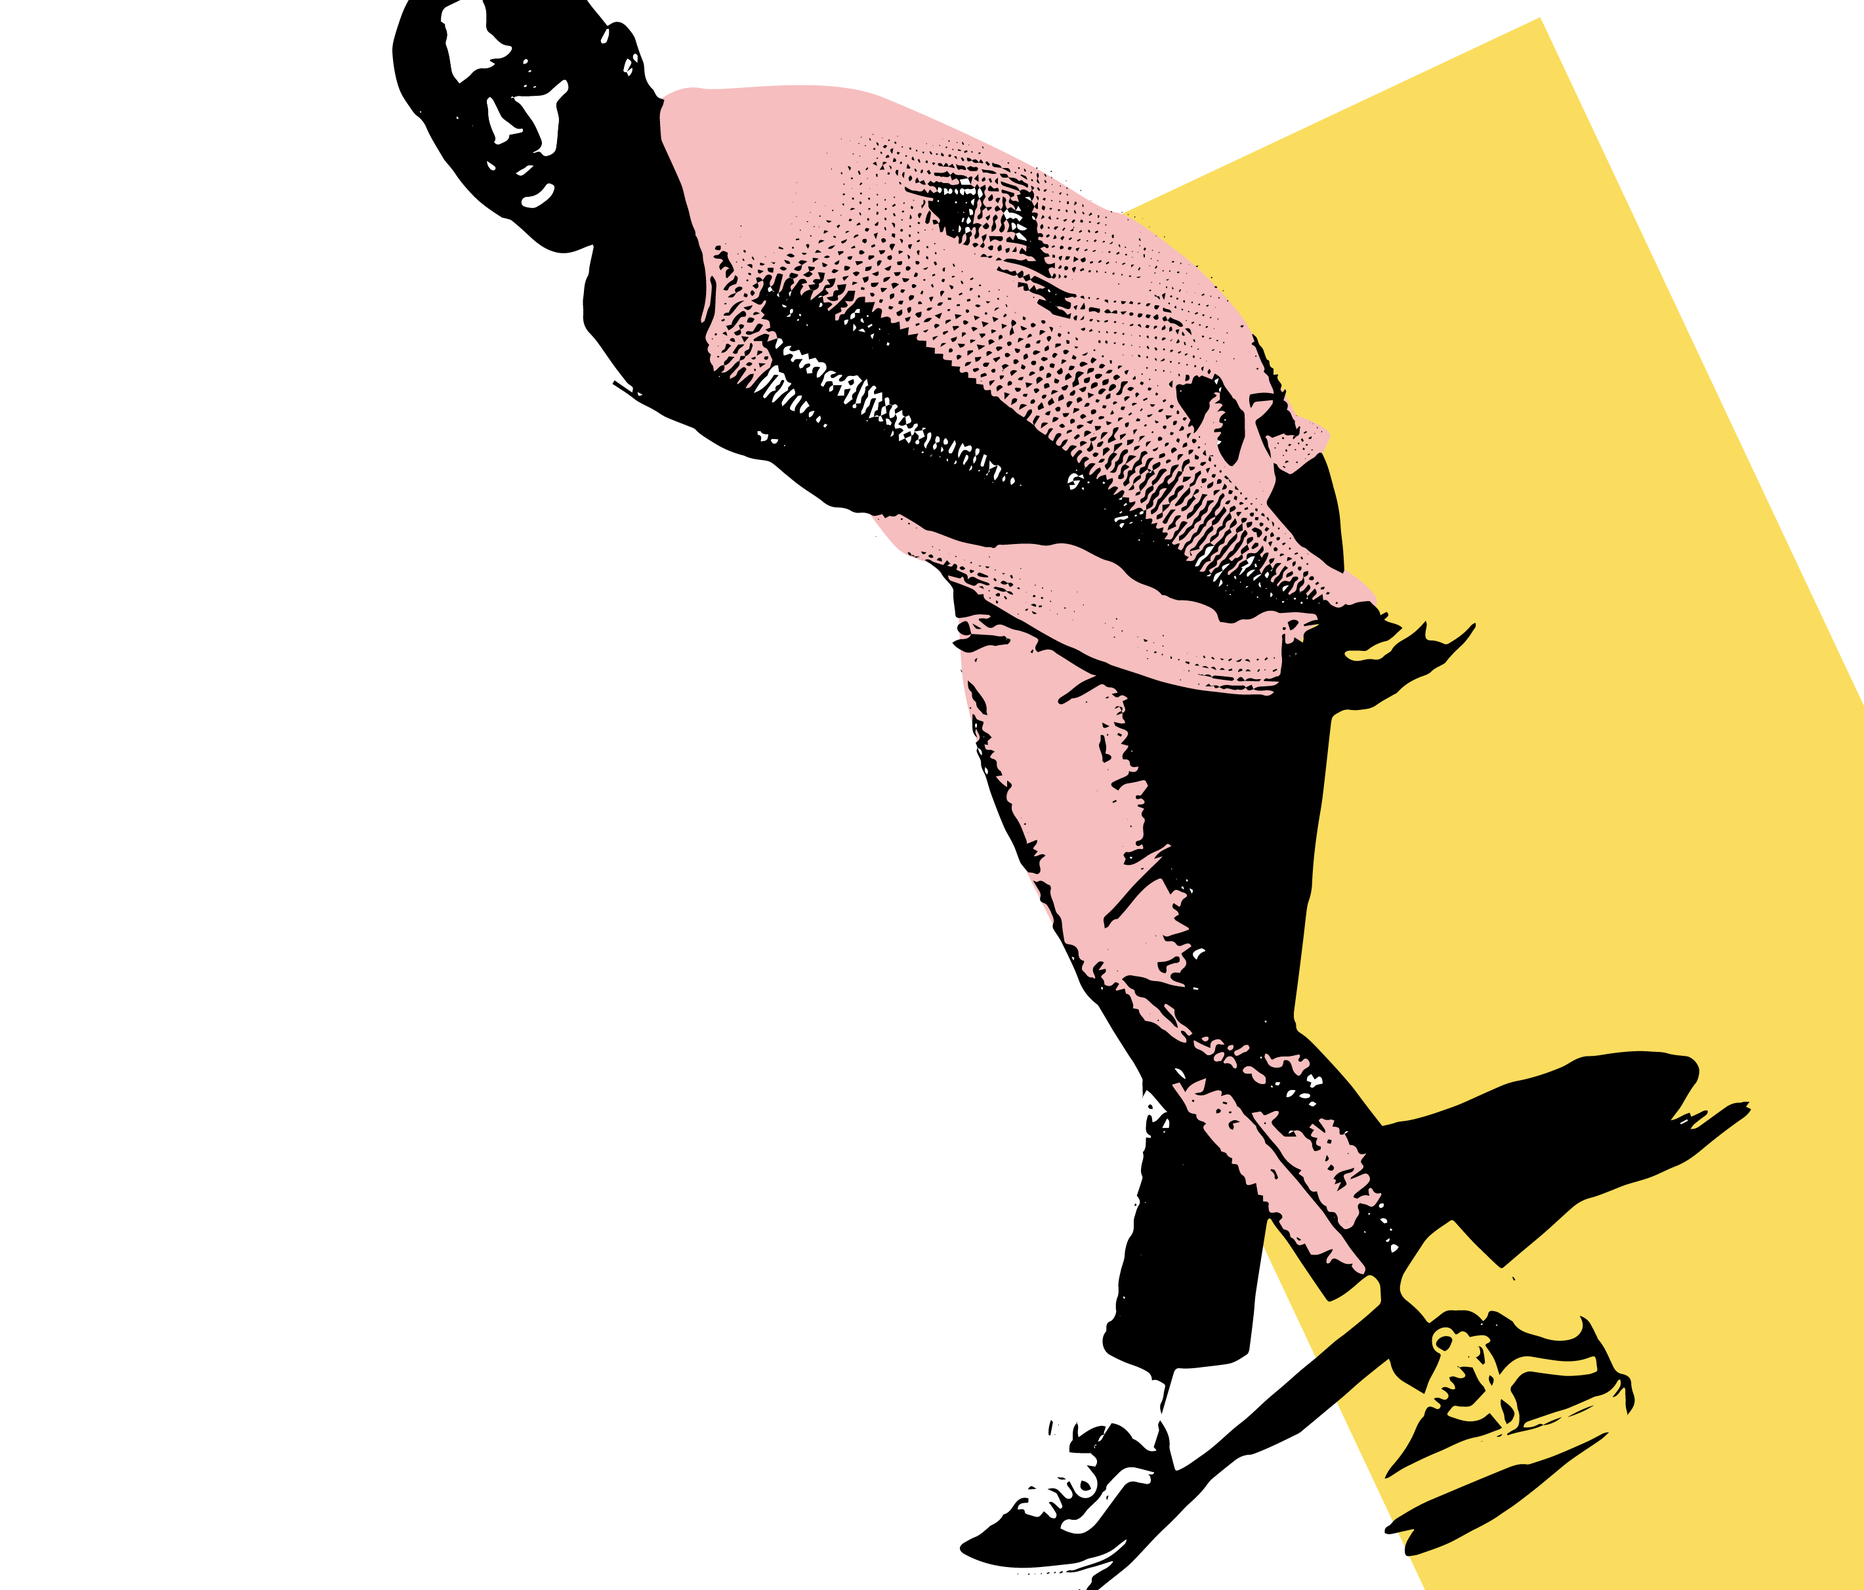
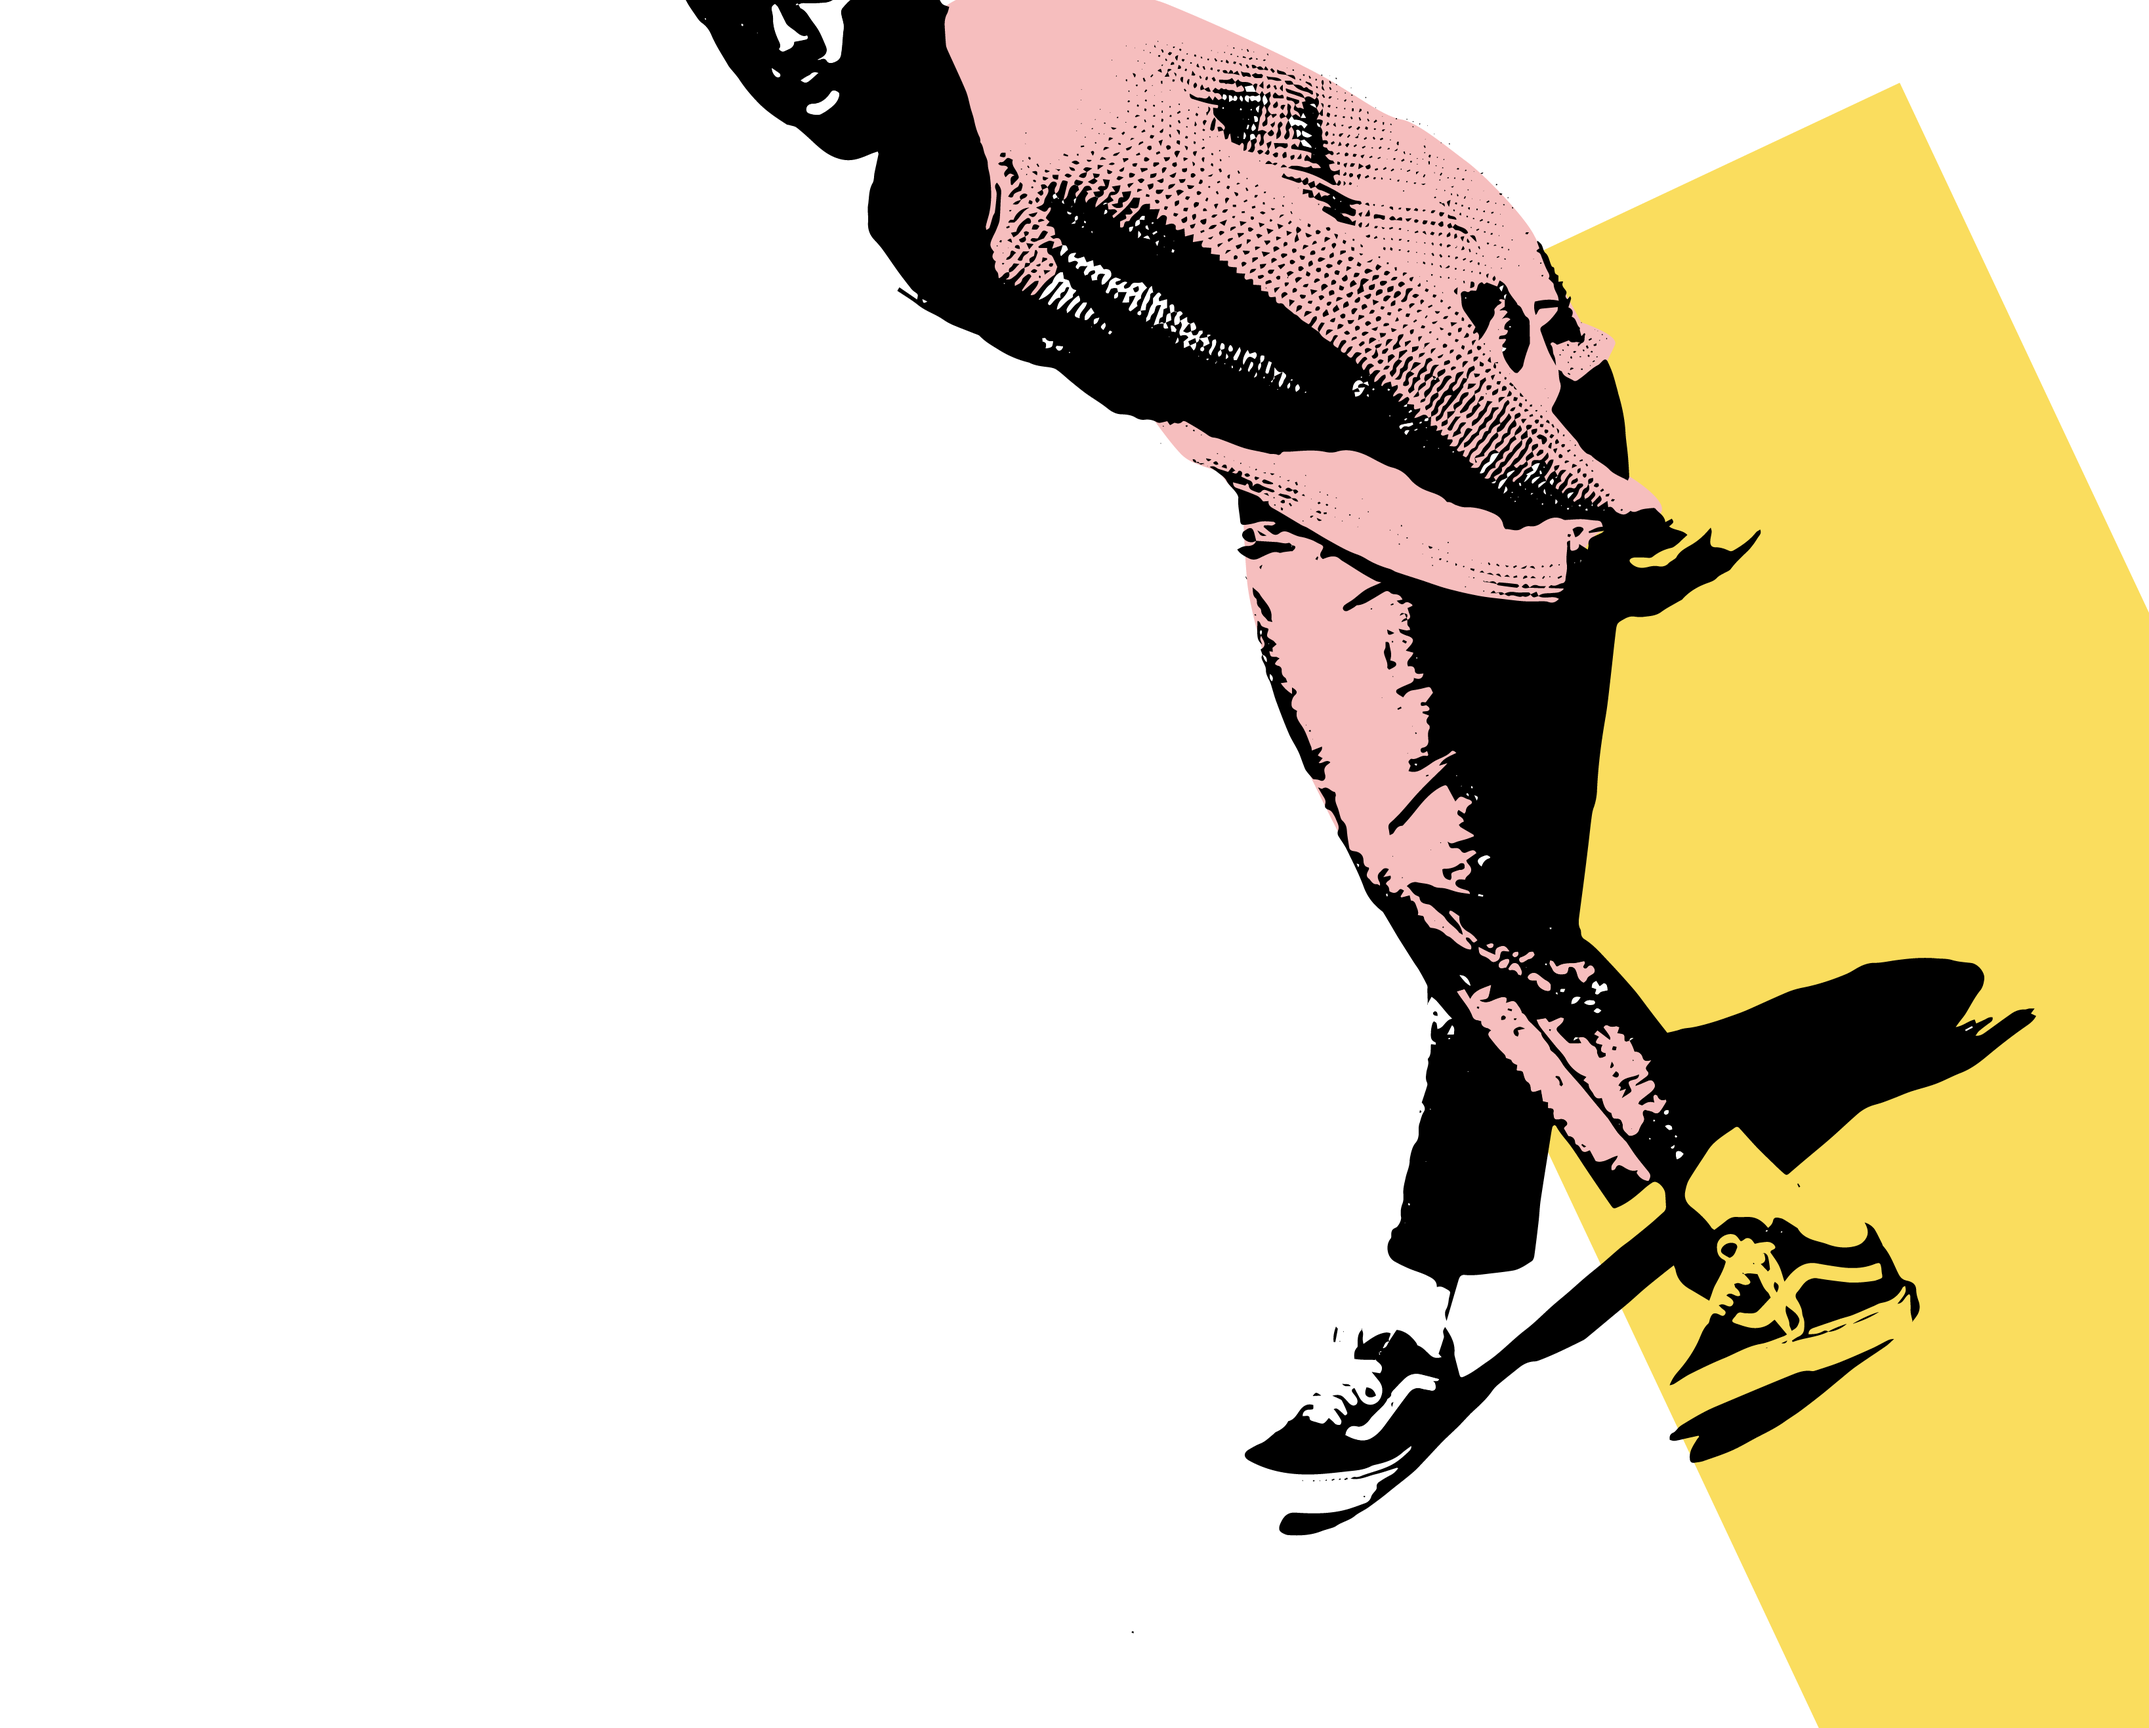
Edits in styling

Changed region(s): [[0.1859, 0.0, 1.0, 1.0]]

diff --git a/style.css b/style.css
@@ -67,10 +67,18 @@ h3 {
   h1
   {
     font-size: 96px;
-    font-variation-settings: 'wght' 550, 'wdth' 50;
+    font-variation-settings: 'wght' 400, 'wdth' 50;
   }
 }
-@media screen and (min-width : 725px)
+@media screen and (min-width : 740px)
+{
+  h1
+  {
+    font-size: 120px;
+    font-variation-settings: 'wght' 400, 'wdth' 50;
+  }
+}
+@media screen and (min-width : 860px)
 {
   h1
   {
@@ -78,11 +86,11 @@ h3 {
     font-variation-settings: 'wght' 550, 'wdth' 50;
   }
 }
-@media screen and (min-width : 1100px)
+@media screen and (min-width : 1120px)
 {
   h1
   {
-    font-size: 131px;
+    font-size: 148px;
     font-variation-settings: 'wght' 700, 'wdth' 50;
   }
 }
@@ -90,12 +98,42 @@ h3 {
 {
   h1
   {
-    font-variation-settings: 'wght' 850, 'wdth' 85;
+    font-size: 126px;
+    font-variation-settings: 'wght' 800, 'wdth' 92;
   }
 }
 
 .site {
 	margin: 0 auto;
+}
+
+.button {
+  font-size: 28px;
+  text-transform: uppercase;
+  line-height: .8;
+  font-variation-settings: 'wght' 800, 'wdth' 50;
+  letter-spacing: 0.05em;
+  background: #FADD5E;
+  color: black;
+  padding: 20px 25px 15px 25px;
+  text-decoration: inherit;
+}
+
+.box-2 .button {
+  position: relative;
+  bottom: 85%;
+  Left: 50%;
+  transform: translate(-50%, -50%);
+  -ms-transform: translate(-50%, -50%);
+  transition: 0.5s;
+  border-radius: 50%;
+}
+
+.box-2 .button:hover {
+  letter-spacing: 0.1em;
+  background: black;
+  color: #FADD5E;
+  transition: 0.5s;
 }
 
 .dashboard {
@@ -126,33 +164,57 @@ h3 {
   background-color: #61BBDA;
   border: 5px black solid;
   outline: 5px black solid;
-}
-
-.box-1:before {
-  background: url('../main_dancer.png') no-repeat center center/cover;
-  position: relative;
-  width: 100%;
-  height: auto;
-}
-
-/* .box-1 img {
+  background-image: url("../main_dancer.png");
+  background-position: right;
   object-fit: cover;
-  width: 100%;
-  height: auto;
-  position: relative;
-} */
+  background-repeat: no-repeat;
+  background-size: auto 1200px;
+}
+
+@media screen and (max-width : 560px)
+{
+  .box-1 {
+    background-size: auto 360px;
+  }
+}
+
+@media screen and (min-width : 561px)
+{
+  .box-1 {
+    background-size: auto 500px;
+  }
+}
+
+@media screen and (min-width : 840px)
+{
+  .box-1 {
+    background-size: auto 610px;
+  }
+}
+
+@media screen and (min-width : 1740px)
+{
+  .box-1 {
+    background-size: auto 750px;
+  }
+}
 
 .box-2 {
   border: 5px black solid;
-  outline: 5px black solid
+  outline: 5px black solid;
+  background-image: url("../shapes.png");
+  object-fit: cover;
+  background-repeat: no-repeat;
+  background-size: auto 100%;
+  position: relative;
 }
 
-.box-2 img {
+/* .box-2 img {
   object-fit: cover;
   width: 100%;
   height: 100%;
   position: relative;
-}
+} */
 
 .box-3 {
   background-color: #FFF;
@@ -161,7 +223,6 @@ h3 {
   padding: 1em;
   width: 100%;
   display: flex;
-  height: 200px;
   flex-wrap: wrap;
   align-content: space-between;
 }
@@ -240,7 +301,7 @@ CSS Grid layout:
 
 @supports (grid-area: auto) {
 
-  @media screen and (max-width: 799px) {
+  @media screen and (max-width: 840px) {
 
     .site {
       justify-items: stretch;
@@ -264,7 +325,7 @@ CSS Grid layout:
 
   }
 
-	@media screen and (min-width: 800px) {
+	@media screen and (min-width: 841px) {
 
 		.site {
 			grid-template-columns: 12em auto 12em;
@@ -281,21 +342,21 @@ CSS Grid layout:
     }
 
     .dashboard {
-      grid-template-columns: repeat(5, 20%)
-      grid-template-rows: repeat(6, 20em)
+      grid-template-columns: repeat(5, 1fr);
+      grid-template-rows: repeat(6, 18.5em);
     }
 
     .grid {
       background: #000;
       display: grid;
       border-bottom: 5px solid #000;
-      grid-template-columns: auto 12em;
-      grid-auto-rows: auto 12em;
+      /* grid-template-columns: auto 12em;
+      grid-auto-rows: auto 12em; */
     }
 
     .box {
       display: flex;
-      align-items: center;
+      align-items: flex-end;
       justify-content: left;
     }
 
@@ -323,17 +384,17 @@ CSS Grid layout:
 
     .box-5 {
       grid-column: 1 / span 2;
-      grid-row: 4 / span 3;
+      grid-row: 4 / span 2;
     }
 
     .box-6 {
       grid-column: 3 / span 3;
-      grid-row: 4;
+      grid-row: 4 / span 2;
     }
 
     .box-7 {
       grid-column: 3 / span 3;
-      grid-row: 5 / span 2;
+      grid-row: 5;
     }
 
 		.colophon {
@@ -352,6 +413,11 @@ CSS Grid layout:
       align-items: stretch;
       max-width: 1600px;
       position: relative;
+    }
+
+    .dashboard {
+      grid-template-columns: repeat(5, 1fr);
+      grid-template-rows: repeat(6, 22em);
     }
 
 }

diff --git a/index.html b/index.html
@@ -22,7 +22,6 @@
 
     <main id="dashboard" class="dashboard grid">
       <div class="box box-1">
-        <!-- <img src="main_dancer.png" alt="summer dancer"> -->
           <h1 class="big-title">
               1 day<br>
               8 artists<br>
@@ -32,7 +31,7 @@
       </div>
 
       <div class="box box-2">
-        <img src="shapes.png" alt="square shapes">
+        <a href="#" class="button">Book Tickets</a>
       </div>
 
       <div class="box box-3">
